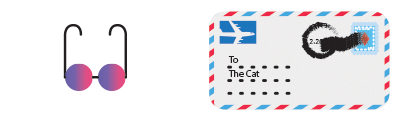
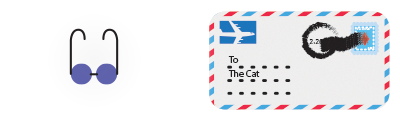
demo: Improve Size Pref and house

Changed region(s): [[0.15, 0.2, 0.33, 0.775]]

diff --git a/demo/js/sizePref.js b/demo/js/sizePref.js
@@ -48,52 +48,55 @@
     };
 
     demo.state.sizePref.upButtonCallback = function(that, model) {
-        if (model.size < 1.4) {
-            model.size = model.size + 0.2;
+        if (model.size < 1.3) {
+            model.size = model.size + 0.1;
             that.envelopeStamp.scale.setTo(model.size, model.size);
             that.envelopeAirMail.scale.setTo(model.size, model.size);
             that.envelopeText.scale.setTo(model.size, model.size);
-            that.envelope.scale.setTo(model.size, model.size);
         }
     };
 
     demo.state.sizePref.downButtonCallback = function(that, model) {
         if (model.size > 1) {
             // size of all the sprites can be changed by passing model.size
-            model.size = model.size - 0.2;
+            model.size = model.size - 0.1;
             that.envelopeStamp.scale.setTo(model.size, model.size);
             that.envelopeAirMail.scale.setTo(model.size, model.size);
             that.envelopeText.scale.setTo(model.size, model.size);
-            that.envelope.scale.setTo(model.size, model.size);
         }
     };
 
     demo.state.sizePref.goButtonCallback = function(that) {
-        that.envelope.visible = false;
-        that.envelopeAirMail.visible = false;
-        that.envelopeStamp.visible = false;
-        that.envelopeText.visible = false;
-        that.upButton.visible = false;
-        that.downButton.visible = false;
-        that.goButton.visible = false;
+        that.envelope.destroy();
+        that.envelopeAirMail.destroy();
+        that.envelopeStamp.destroy();
+        that.envelopeText.destroy();
+        that.upButton.alpha = 0;
+        that.downButton.alpha = 0;
+        that.goButton.alpha = 0;
     };
 
     demo.state.sizePref.smallEnvelopeAppear = function(that) {
-        that.envelopePreview = that.add.sprite(500, 600, "extraAssetsp", 1);
-        that.envelopePreview.scale.setTo(0.5, 0.5);
+        that.envelopePreview = that.add.sprite(640, 600, "extraAssetsp", 1);
+        that.envelopePreview.anchor.setTo(0.5, 0.5);
+        that.envelopePreview.scale.setTo(0.8, 0.8);
         that.physics.arcade.enable(that.envelopePreview);
+        that.envelopePreview.body.enable = false;
         that.envelopePreview.body.immovable = true;
-        that.spects.visible = false;
+        that.envelopePreview.visible = false;
     };
 
     demo.state.sizePref.envelopeScreenAppear = function(that) {
         // Envelope
         that.envelope = that.add.sprite(0, 0, "letterEnvelopesp");
-        that.envelopeStamp = that.add.sprite(530, 150, "letterAssetsp", 0);
-        that.envelopeAirMail = that.add.sprite(0, 140, "letterAssetsp", 1);
+        that.envelopeAirMail = that.add.sprite(240, 260, "letterAssetsp", 1);
+        that.envelopeAirMail.anchor.setTo(0.5, 0.5);
+        that.envelopeStamp = that.add.sprite(660, 280, "letterAssetsp", 0);
+        that.envelopeStamp.anchor.setTo(0.5, 0.5);
         // Replace text with all options
-        that.envelopeText = that.add.text(100, 380, "To\nThe Cat\nChasing the Rat",
+        that.envelopeText = that.add.text(260, 490, "To\nThe Cat\nChasing the Rat",
                                                  { font: "40px Arial" });
+        that.envelopeText.anchor.setTo(0.5, 0.5);
 
         // Buttons
         that.upButton = that.add.button(980, 170, "upDownButtonsp",
@@ -110,6 +113,7 @@
     };
 
     demo.state.sizePref.create = function(that) {
+
         // Audio
         that.audioG = that.add.audio("gChord");
         that.audioC = that.add.audio("cChord");
@@ -134,6 +138,9 @@
         that.physics.arcade.enable(that.ground);
         that.ground.body.immovable = true;
 
+        // For small envelope did this to sole the problem of having the
+        // letter above cat.
+        that.smallEnvelopeAppear();
         // Cat
         that.cat = that.add.sprite(50, 500, "catMoveh", 5);
         that.cat.scale.setTo(0.4, 0.4);
@@ -150,13 +157,50 @@
         that.cursors = that.input.keyboard.createCursorKeys();
         that.enter = that.input.keyboard.addKey(Phaser.Keyboard.ENTER);
 
-
-
+        // spects notif test
+        that.spectsNotif = that.add.sprite(950, 450, "messageBoxAll", 0);
+        that.spectsNotif.addChild(that.add.text(35, 20, "ENTER"));
+        that.spectsNotif.alpha = 0;
+        // spects notif test
+        that.doorNotif = that.add.sprite(40, 480, "messageBoxAll", 0);
+        that.doorNotif.addChild(that.add.text(35, 20, "ENTER"));
+        that.doorNotif.alpha = 0;
+                // spects notif test
+        that.envelopeNotif = that.add.sprite(550, 440, "messageBoxAll", 0);
+        that.envelopeNotif.addChild(that.add.text(35, 20, "ENTER"));
+        that.envelopeNotif.alpha = 0;
     };
 
     demo.state.sizePref.update = function(that) {
         // Create seperation between ground and cat
         that.physics.arcade.collide(that.cat, that.ground);
+
+        if (that.physics.arcade.overlap(that.spects, that.cat) && that.spectsNotif.alpha === 0) {
+            that.add.tween(that.spectsNotif).to({ alpha: 1 },
+                            800, Phaser.Easing.Sinusoidal.InOut, true);
+        }
+        if (!that.physics.arcade.overlap(that.spects, that.cat) && that.spectsNotif.alpha === 1) {
+            that.add.tween(that.spectsNotif).to({ alpha: 0 },
+                            800, Phaser.Easing.Sinusoidal.InOut, true);
+        }
+        if (that.physics.arcade.overlap(that.houseDoor, that.cat) && that.doorNotif.alpha === 0) {
+            that.add.tween(that.doorNotif).to({ alpha: 1 },
+                            800, Phaser.Easing.Sinusoidal.InOut, true);
+        }
+        if (!that.physics.arcade.overlap(that.houseDoor, that.cat) && that.doorNotif.alpha === 1) {
+            that.add.tween(that.doorNotif).to({ alpha: 0 },
+                            800, Phaser.Easing.Sinusoidal.InOut, true);
+        }
+        if (that.physics.arcade.overlap(that.envelopePreview, that.cat) &&
+                                                                that.envelopeNotif.alpha === 0) {
+            that.add.tween(that.envelopeNotif).to({ alpha: 1 },
+                            800, Phaser.Easing.Sinusoidal.InOut, true);
+        }
+        if (!that.physics.arcade.overlap(that.envelopePreview, that.cat) &&
+                                                                 that.envelopeNotif.alpha === 1) {
+            that.add.tween(that.envelopeNotif).to({ alpha: 0 },
+                            800, Phaser.Easing.Sinusoidal.InOut, true);
+        }
 
         // Exit from room
         if (that.physics.arcade.overlap(that.houseDoor, that.cat) && that.enter.isDown) {
@@ -164,12 +208,17 @@
         }
 
         if (that.physics.arcade.overlap(that.spects, that.cat) && that.enter.isDown) {
-            that.smallEnvelopeAppear();
+            that.envelopePreview.visible = true;
+            // Pick up envelope and spects will disappear
+            that.spects.visible = false;
+            // So that notif does not appear when the preview has not come.
+            that.envelopePreview.body.enable = true;
         }
 
         if (that.physics.arcade.overlap(that.envelopePreview, that.cat) && that.enter.isDown) {
             that.envelopeScreenAppear();
         }
+
         // Character movement
         if (that.cursors.left.isDown) {
             that.cat.body.velocity.x = -150;

diff --git a/demo/js/house.js b/demo/js/house.js
@@ -53,11 +53,36 @@
         that.ground = that.platforms.create(0, 675, "platformh");
         that.ground.body.immovable = true;
 
+        // Safe with yarn balls
+        that.safe = that.add.sprite(450, 675, "safeh");
+        that.safe.anchor.setTo(0.5, 1);
+        that.safe.scale.setTo(0.3, 0.3);
+        that.physics.arcade.enable(that.safe);
+        that.safe.body.immovable = true;
+
         // door or the room state, will see them for collision
+        // Entry Door
         that.add.sprite(50, 38, "doorh", 0);
-        that.sizeDoor = that.add.sprite(425, 38, "doorh", 1);
+        // Size Pref Door
+        that.sizeDoor = that.add.sprite(400, 38, "doorh", 1);
         that.physics.arcade.enable(that.sizeDoor);
         that.sizeDoor.body.immovable = true;
+        // Color Pref Door
+        that.colorDoor = that.add.sprite(770, 38, "doorh", 1);
+        that.physics.arcade.enable(that.colorDoor);
+        that.colorDoor.body.immovable = true;
+        // Simplify Pref Door
+        that.simplifyDoor = that.add.sprite(400, 277, "doorh", 1);
+        that.physics.arcade.enable(that.simplifyDoor);
+        that.simplifyDoor.body.immovable = true;
+        // Sounds Pref Door
+        that.soundDoor = that.add.sprite(770, 277, "doorh", 1);
+        that.physics.arcade.enable(that.soundDoor);
+        that.soundDoor.body.immovable = true;
+        // Main Exit Door
+        that.mainExitDoor = that.add.sprite(970, 513, "doorh", 1);
+        that.physics.arcade.enable(that.mainExitDoor);
+        that.mainExitDoor.body.immovable = true;
 
         // Cat
         that.cat = that.add.sprite(70, 65, "catMoveh", 5);
@@ -74,6 +99,15 @@
         // automatically populate the cursor key define each key
         that.cursors = that.input.keyboard.createCursorKeys();
         that.enter = that.input.keyboard.addKey(Phaser.Keyboard.ENTER);
+
+        // Notif size pref door
+        that.sizeDoorNotif = that.add.sprite(400, 10, "messageBoxAll", 0);
+        that.sizeDoorNotif.addChild(that.add.text(35, 20, "ENTER"));
+        that.sizeDoorNotif.alpha = 0;
+        // Notif safe
+        that.safeNotif = that.add.sprite(400, 480, "messageBoxAll", 0);
+        that.safeNotif.addChild(that.add.text(35, 20, "ENTER"));
+        that.safeNotif.alpha = 0;
     };
 
     demo.state.house.update = function(that) {
@@ -99,10 +133,37 @@
             that.cat.animations.stop();
             that.cat.body.velocity.x = 0;
         }
-
+        // jump character
         if (that.cursors.up.isDown && that.cat.body.touching.down) {
             that.cat.body.velocity.y = -700;
         }
+
+        // Size Door Notif
+        if (that.physics.arcade.overlap(that.sizeDoor, that.cat) &&
+                                                    that.sizeDoorNotif.alpha === 0) {
+            that.add.tween(that.sizeDoorNotif).to({ alpha: 1 },
+                            800, Phaser.Easing.Sinusoidal.InOut, true);
+        }
+
+        if (!that.physics.arcade.overlap(that.sizeDoor, that.cat) &&
+                                                    that.sizeDoorNotif.alpha === 1) {
+            that.add.tween(that.sizeDoorNotif).to({ alpha: 0 },
+                            800, Phaser.Easing.Sinusoidal.InOut, true);
+        }
+
+        // Safe Notif
+        if (that.physics.arcade.overlap(that.safe, that.cat) &&
+                                                    that.safeNotif.alpha === 0) {
+            that.add.tween(that.safeNotif).to({ alpha: 1 },
+                            800, Phaser.Easing.Sinusoidal.InOut, true);
+        }
+
+        if (!that.physics.arcade.overlap(that.safe, that.cat) &&
+                                                    that.safeNotif.alpha === 1) {
+            that.add.tween(that.safeNotif).to({ alpha: 0 },
+                            800, Phaser.Easing.Sinusoidal.InOut, true);
+        }
+
     };
 
 })(jQuery, fluid);

diff --git a/demo/js/prelude.js b/demo/js/prelude.js
@@ -28,6 +28,10 @@
                 funcName: "demo.state.prelude.ratWalkIn",
                 args: "{that}"
             },
+            ratWalkRight: {
+                funcName: "demo.state.prelude.ratWalkRight",
+                args: "{that}"
+            },
             nextScene: {
                 funcName: "demo.state.prelude.nextScene",
                 args: "{that}"
@@ -85,6 +89,13 @@
                                             Phaser.Easing.Sinusoidal.InOut, true);
     };
 
+    demo.state.prelude.ratWalkRight = function(that) {
+        that.rat.animations.add("run", [0, 1, 2, 3], 10, true);
+        that.rat.play("run");
+        that.add.tween(that.rat).to({ x: 850, y: 560 }, 3000,
+                                            Phaser.Easing.Sinusoidal.InOut, true);
+    };
+
     // Runs at t = 14000ms
     // To start next scene
     demo.state.prelude.nextScene = function(that) {
@@ -109,7 +120,8 @@
         // Time events
         that.time.events.add(4000, that.fadeInRatHead, that);
         that.time.events.add(8000, that.ratWalkIn, that);
-        that.time.events.add(14000, that.nextScene, that);
+        that.time.events.add(12000, that.ratWalkRight, that);
+        that.time.events.add(15000, that.nextScene, that);
 
         // Audio
         // Each state will start and pause its music start at any point end while leaving

diff --git a/demo/js/Preload.js b/demo/js/Preload.js
@@ -53,6 +53,7 @@
         game.load.spritesheet("messageBoxlp", "assets/messageBox-langPref.png", 400, 127);
         // houseEntry uses same assets from langPref
         // house assets
+        game.load.image("safeh", "assets/safe-house.png");
         game.load.image("backgroundh", "assets/background-house.png");
         game.load.image("platformh", "assets/platform-house.png");
         game.load.spritesheet("doorh", "assets/doors-house.png", 200, 163);
@@ -75,6 +76,9 @@
         game.load.audio("cChord", ["assets/C-Chord.mp3", "assets/C-Chord.ogg"]);
         game.load.audio("gChord", ["assets/G-Chord.mp3", "assets/G-Chord.ogg"]);
         game.load.audio("emChord", ["assets/Em-Chord.mp3", "assets/Em-Chord.ogg"]);
+
+        // universal
+        game.load.image("messageBoxAll", "assets/messageBox-allStates.png");
     };
 
     demo.state.Preload.create = function(game) {

diff --git a/demo/js/prelude2.js b/demo/js/prelude2.js
@@ -116,7 +116,7 @@
         that.yarn = that.add.sprite(582, 419, "yarnBalls2");
 
         // rat here has turned the direction now its looking towards left a new sprite
-        that.rat = that.add.sprite(850, 520, "ratMoves2", 2);
+        that.rat = that.add.sprite(850, 560, "ratMoves2", 2);
         that.rat.anchor.setTo(0.5, 0.5);
         that.rat.animations.add("run", [0, 1, 2, 3], 10, true);
         that.rat.play("run");
